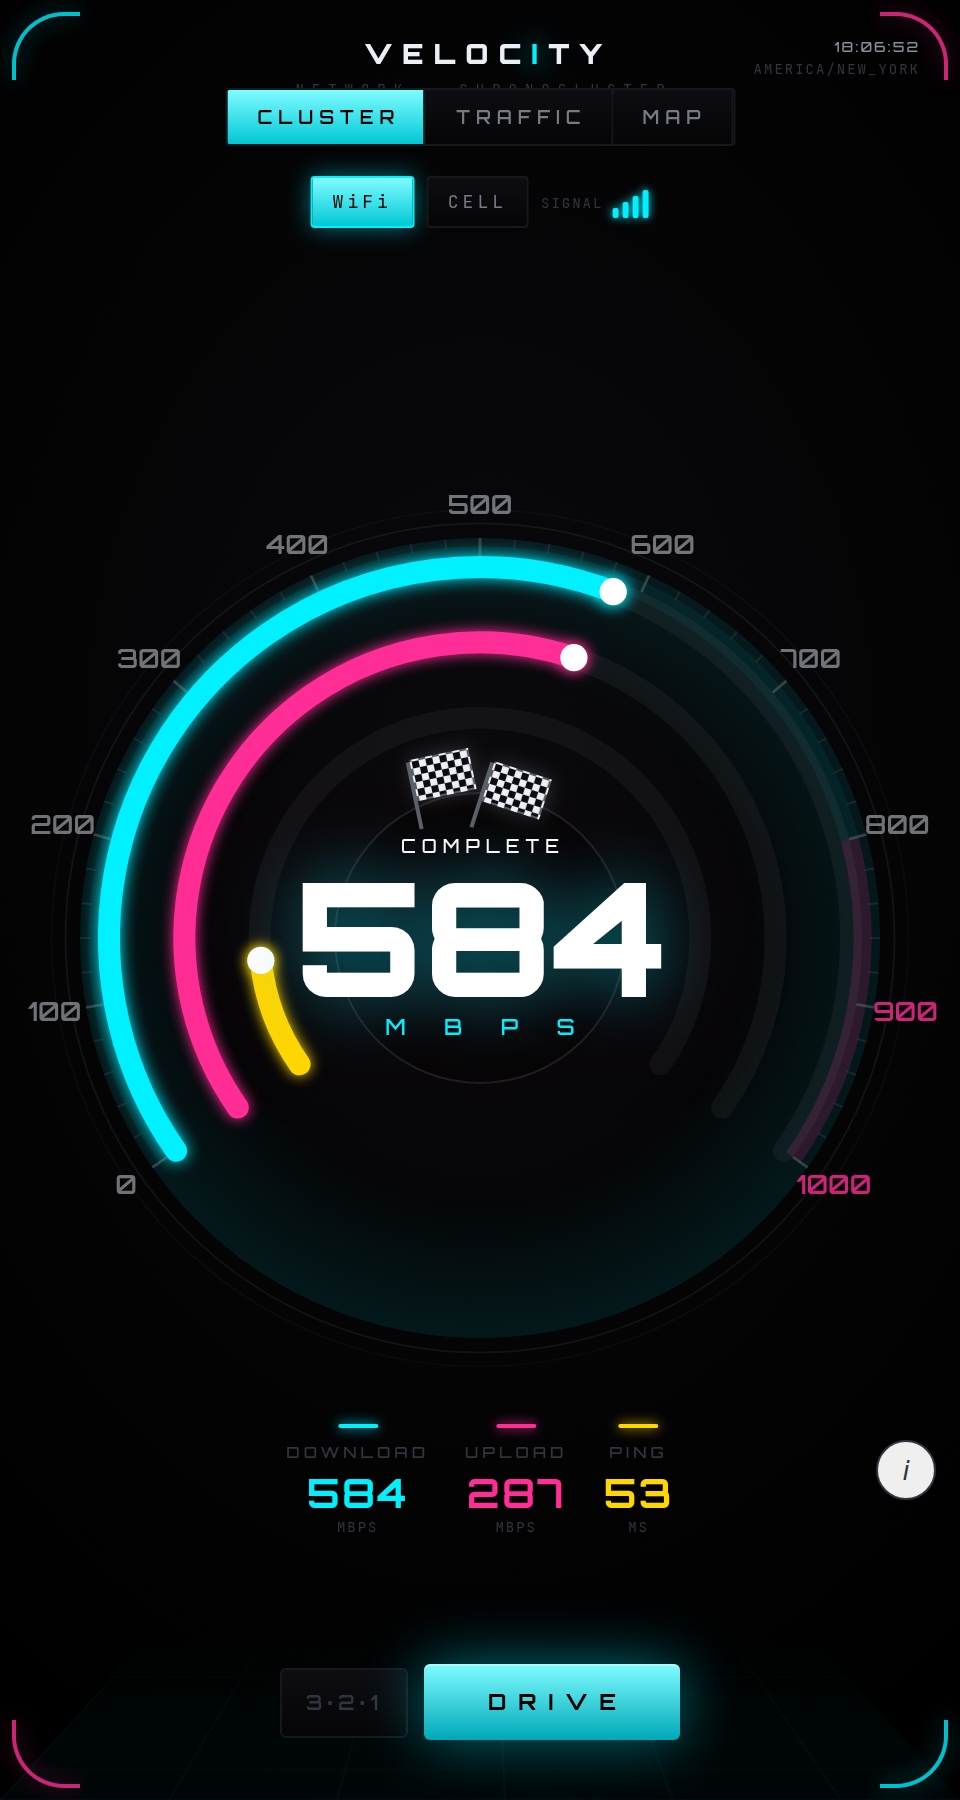
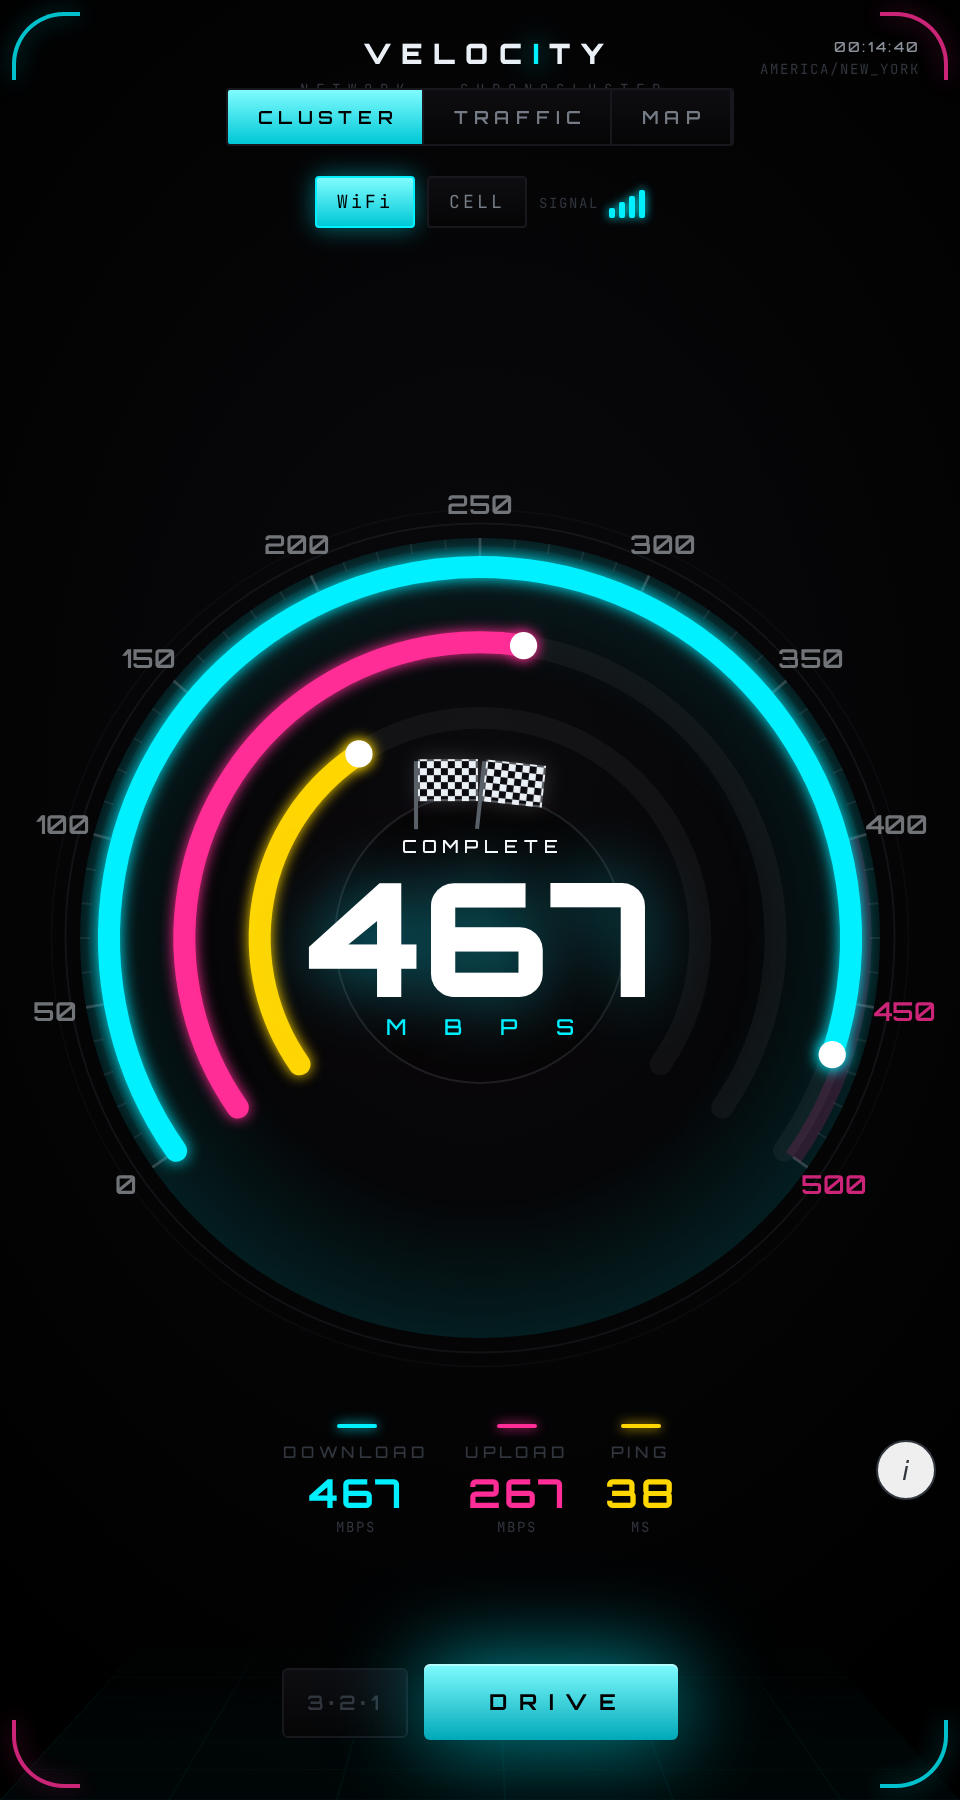
docs(readme): offline + install, real screenshots
- the README said "one self-contained HTML file: no install" — it now
  installs and opens offline (e9d3324): Yours-to-keep, a Keep-it step,
  dev notes and Under-the-hood describe the service worker and the
  labelled last-run fallback
- screenshots retaken from the live app: a real speed test from this
  machine; Traffic/Map show the app's own labelled DEMO state (what every
  visitor sees without the local helper)

Claude-Session: https://claude.ai/code/session_01Fkcy83a99eAxkqh83U9V1n

diff --git a/README.md b/README.md
@@ -26,7 +26,7 @@ $\textcolor{#00E5CF}{\textsf{download}}$ · $\textcolor{#FFD700}{\textsf{upload}
 
 ## ⚡ What is it?
 
-velocity measures your internet speed and shows it as a living chronograph. It's a single HTML file — open it and it runs instantly. Three faces: $\textcolor{#00E5CF}{\textsf{Cluster}}$ (download, upload and ping on one dial), $\textcolor{#FFD700}{\textsf{Traffic}}$ (your throughput live over time), and $\textcolor{#FF3D5C}{\textsf{Map}}$ (your connection quality, room by room). One tap to run.
+velocity measures your internet speed and shows it as a living chronograph. It's one HTML page — open it and it runs instantly. Three faces: $\textcolor{#00E5CF}{\textsf{Cluster}}$ (download, upload and ping on one dial), $\textcolor{#FFD700}{\textsf{Traffic}}$ (your throughput live over time), and $\textcolor{#FF3D5C}{\textsf{Map}}$ (your connection quality, room by room). One tap to run.
 
 No app store, no account, nothing to sign up for. Open the link and it works. Like it? Add it to your home screen like any other app.
 
@@ -36,7 +36,7 @@ Most apps want your account, your data, and your attention. Every codereimagine 
 
 - **Private by default** — no accounts, no tracking, nothing sold. Your exact location stays on *your* device.
 - **No ads, no clutter** — nothing on the screen is trying to sell you something.
-- **Yours to keep** — one self-contained HTML file: no install, no dependencies, and it runs from any web server.
+- **Yours to keep** — installs like an app and opens offline. With no connection it shows your last real result, labelled with when it ran — a speed test itself needs the internet, so it never makes up a number.
 - **Fully open & free** — the whole thing is public (Apache-2.0). Nothing hidden.
 - **Made to feel good** — an everyday tool should be beautiful, not just functional.
 
@@ -54,10 +54,11 @@ Most apps want your account, your data, and your attention. Every codereimagine 
 3. **Watch live traffic** — **TRAFFIC** shows your live flow against its average; **BOOST · 10s** watches for ten seconds and reports the average and peak.
 4. **Map your rooms** — on **MAP**, pick a room and tap **GO** to save a reading there. Readings stay in your own browser.
 5. **On a laptop (optional)** — run the small local helper (see below) for true Wi-Fi signal strength and real traffic numbers.
+6. **Keep it** — add it to your home screen. With no connection it still opens and shows your last real run, labelled with when it ran.
 
 ## 🛠 Run or build it yourself (developers)
 
-It's a single HTML file — no build, no dependencies. Browsers block `file://` fetches, so serve it over http:
+It's one HTML page plus a small service worker — no build, no dependencies. Browsers block `file://` fetches, so serve it over http:
 
 ```bash
 git clone https://github.com/codereimagine/velocity.git
@@ -68,7 +69,8 @@ python3 -m http.server 8099
 
 <details><summary><b>🔧 Under the hood</b></summary>
 
-- **One file:** the whole app is a single HTML page — vanilla JavaScript, Canvas 2D + `requestAnimationFrame`, `localStorage`. No framework, no build, no dependencies.
+- **One page:** the whole app is a single HTML page — vanilla JavaScript, Canvas 2D + `requestAnimationFrame`, `localStorage`. No framework, no build, no dependencies.
+- **Offline:** a tiny service worker (`sw.js`) keeps the page openable with no connection. It never touches the speed test or the local helper, so every reading is live; offline, the last completed run is shown with its date and time.
 - **Measurement:** download, upload and latency run over [Cloudflare](https://developers.cloudflare.com/speed/)'s keyless HTTPS endpoints, measured on a settled window (TCP slow-start excluded) with a per-run **stability error bar** — every reading carries how steady it was.
 - **Design study.**
 - **Locked down:** a strict Content-Security-Policy pins the script by hash and limits network egress to Cloudflare's speed endpoints, its own site (codereimagine.github.io) and the optional local helper only — nothing else can run or phone home. Room readings are saved only in your own browser.
